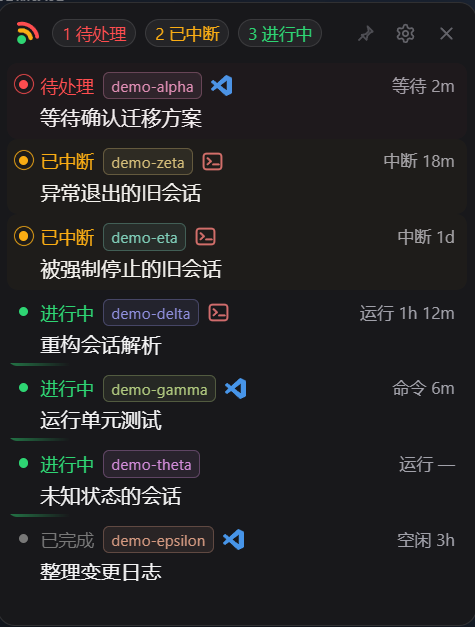
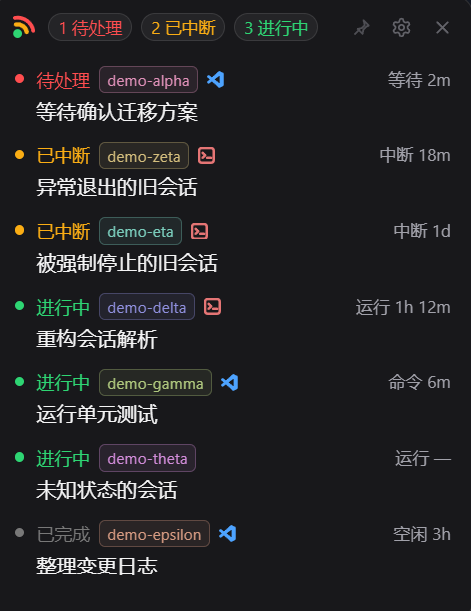
fix(ui): 修复入口图标颜色残留并更新文档截图
- 入口图标改为 VSCode / CLI 各自持有固定节点与固定颜色，行复用只切换 hidden，避免 WebView2 复用旧合成层纹理导致 CLI 图标残留蓝色
- 入口图标缩小至 0.8em，CLI 图标重绘为满框描边并加粗线宽，移除 opacity 以降低额外合成层
- 更新 README 截图并做无损 PNG 重编码（约 865 KB → 27 KB）

diff --git a/src/main.ts b/src/main.ts
@@ -124,7 +124,7 @@ const STATE_CLASSES = BOARD_STATES.map((state) => STATE_META[state].className);
 const VSCODE_ICON_SVG =
   '<svg viewBox="0 0 24 24" aria-hidden="true"><path fill="currentColor" d="M23.15 2.587 18.21.21a1.494 1.494 0 0 0-1.705.29l-9.46 8.63-4.12-3.128a.999.999 0 0 0-1.276.057L.327 7.261A1 1 0 0 0 .326 8.74L3.899 12 .326 15.26a1 1 0 0 0 .001 1.479L1.65 17.94a.999.999 0 0 0 1.276.057l4.12-3.128 9.46 8.63a1.492 1.492 0 0 0 1.704.29l4.942-2.377A1.5 1.5 0 0 0 24 20.06V3.939a1.5 1.5 0 0 0-.85-1.352zm-5.146 14.861L10.826 12l7.178-5.448v10.896z"/></svg>';
 const CLI_ICON_SVG =
-  '<svg viewBox="0 0 16 16" aria-hidden="true"><rect x="1.2" y="2" width="13.6" height="12" rx="2.4" fill="none" stroke="currentColor" stroke-width="1.5"/><path fill="none" stroke="currentColor" stroke-width="1.5" stroke-linecap="round" stroke-linejoin="round" d="M4.2 5.4 6.8 7.8l-2.6 2.4M8.4 10.2h4.4"/></svg>';
+  '<svg viewBox="0 0 24 24" aria-hidden="true"><rect x="1.5" y="1.5" width="21" height="21" rx="4.2" fill="none" stroke="currentColor" stroke-width="3.6"/><path fill="none" stroke="currentColor" stroke-width="3.6" stroke-linecap="round" stroke-linejoin="round" d="M6.6 8.2 10.3 11.8 6.6 15.4M12.9 15.4h5.9"/></svg>';
 
 // 无边框窗口的 8 个缩放方向，名称与 Tauri ResizeDirection 一致
 const RESIZE_DIRECTIONS: ReadonlySet<ResizeDirection> = new Set([
@@ -151,7 +151,8 @@ type RowView = {
   stateLabel: HTMLSpanElement;
   name: HTMLSpanElement;
   folder: HTMLSpanElement;
-  entryIcon: HTMLSpanElement;
+  vscodeIcon: HTMLSpanElement;
+  cliIcon: HTMLSpanElement;
   duration: HTMLSpanElement;
 };
 
@@ -268,10 +269,21 @@ function createRowView(): RowView {
   const folder = document.createElement("span");
   folder.className = "cwd";
 
-  const entryIcon = document.createElement("span");
-  entryIcon.className = "entry-icon";
-  entryIcon.setAttribute("aria-hidden", "true");
-  entryIcon.hidden = true;
+  // NOTE: 两种入口图标各自持有固定节点与固定颜色，行复用时只切换 hidden。
+  // 不在运行期替换 innerHTML / 切换 color，避免 WebView2 复用旧合成层纹理导致颜色残留。
+  const vscodeIcon = document.createElement("span");
+  vscodeIcon.className = "entry-icon";
+  vscodeIcon.dataset.kind = "vs-code";
+  vscodeIcon.setAttribute("aria-hidden", "true");
+  vscodeIcon.innerHTML = VSCODE_ICON_SVG;
+  vscodeIcon.hidden = true;
+
+  const cliIcon = document.createElement("span");
+  cliIcon.className = "entry-icon";
+  cliIcon.dataset.kind = "cli";
+  cliIcon.setAttribute("aria-hidden", "true");
+  cliIcon.innerHTML = CLI_ICON_SVG;
+  cliIcon.hidden = true;
 
   const duration = document.createElement("span");
   duration.className = "duration";
@@ -280,7 +292,7 @@ function createRowView(): RowView {
   // NOTE: 目录是稳定且短的会话识别锚点，优先于 AI 生成的标题；入口文字只在悬浮详情中展示
   const mainLine = document.createElement("div");
   mainLine.className = "session-main";
-  mainLine.append(stateLabel, folder, entryIcon, duration);
+  mainLine.append(stateLabel, folder, vscodeIcon, cliIcon, duration);
 
   const content = document.createElement("div");
   content.className = "session-content";
@@ -353,7 +365,8 @@ function createRowView(): RowView {
     stateLabel,
     name,
     folder,
-    entryIcon,
+    vscodeIcon,
+    cliIcon,
     duration,
   };
 }
@@ -387,16 +400,8 @@ function updateRowView(
 
   const entrypoint = entrypointLabel(row.entrypoint);
   const iconKind = entrypoint === "vs-code" || entrypoint === "cli" ? entrypoint : null;
-  if (iconKind === null) {
-    view.entryIcon.hidden = true;
-  } else {
-    if (view.entryIcon.dataset.kind !== iconKind) {
-      view.entryIcon.dataset.kind = iconKind;
-      // NOTE: 图标为静态 SVG 常量，不包含任何会话数据
-      view.entryIcon.innerHTML = iconKind === "vs-code" ? VSCODE_ICON_SVG : CLI_ICON_SVG;
-    }
-    view.entryIcon.hidden = false;
-  }
+  view.vscodeIcon.hidden = iconKind !== "vs-code";
+  view.cliIcon.hidden = iconKind !== "cli";
 
   view.duration.textContent = describeDuration(row, state, now);
 

diff --git a/src/styles.css b/src/styles.css
@@ -604,10 +604,9 @@ input {
 /* 第一行入口图标：VSCode 蓝 / 终端红，只做入口识别，不参与状态语义 */
 .entry-icon {
   flex: none;
-  width: calc(var(--font-size-base) * 1);
-  height: calc(var(--font-size-base) * 1);
+  width: calc(var(--font-size-base) * 0.8);
+  height: calc(var(--font-size-base) * 0.8);
   color: var(--color-text-sub);
-  opacity: 0.9;
 }
 
 .entry-icon[data-kind="vs-code"] {
